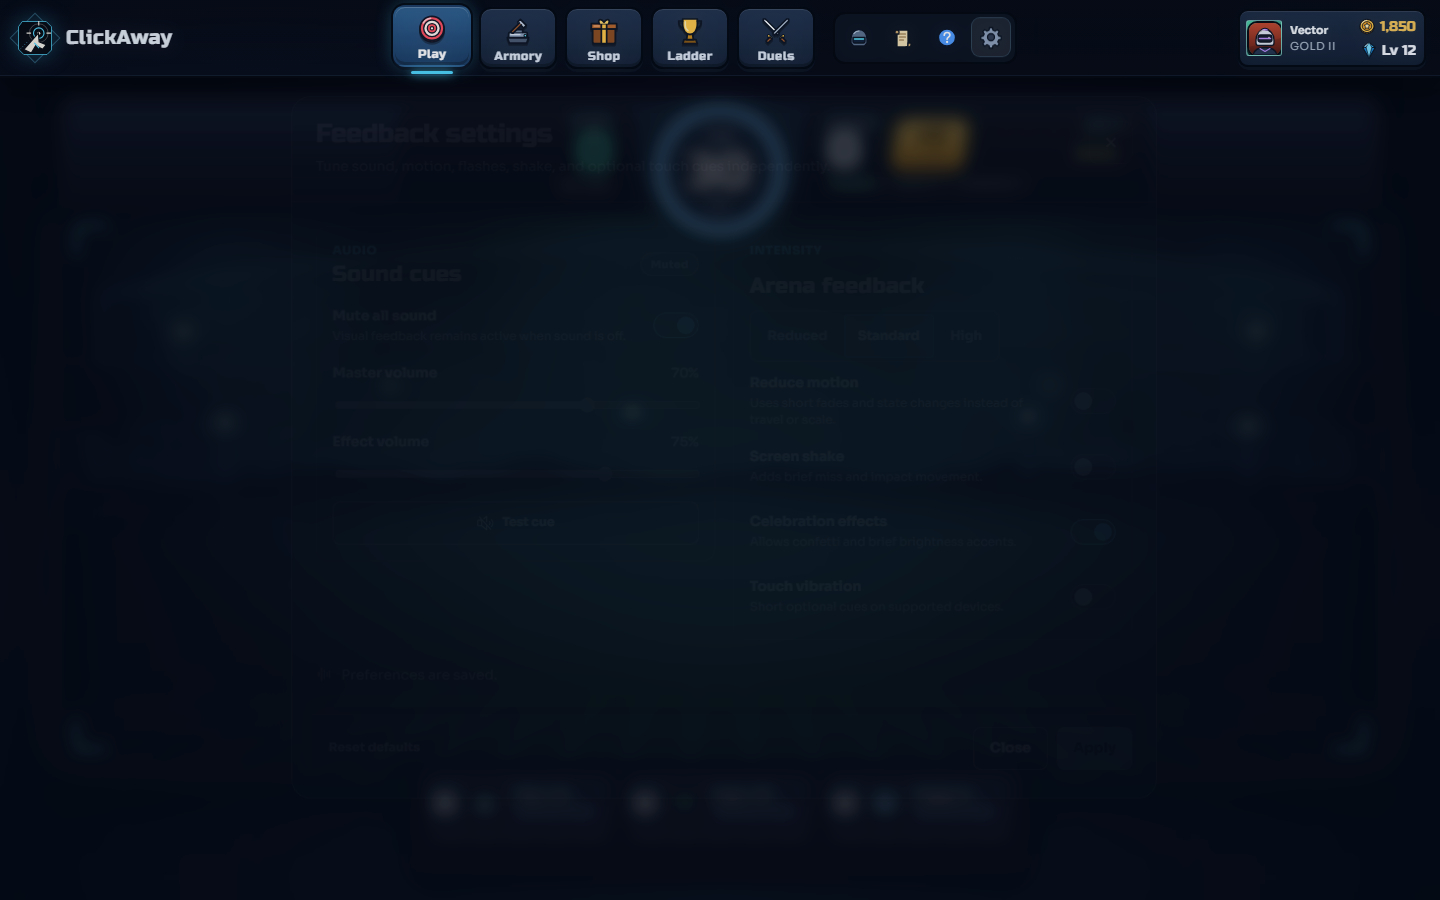
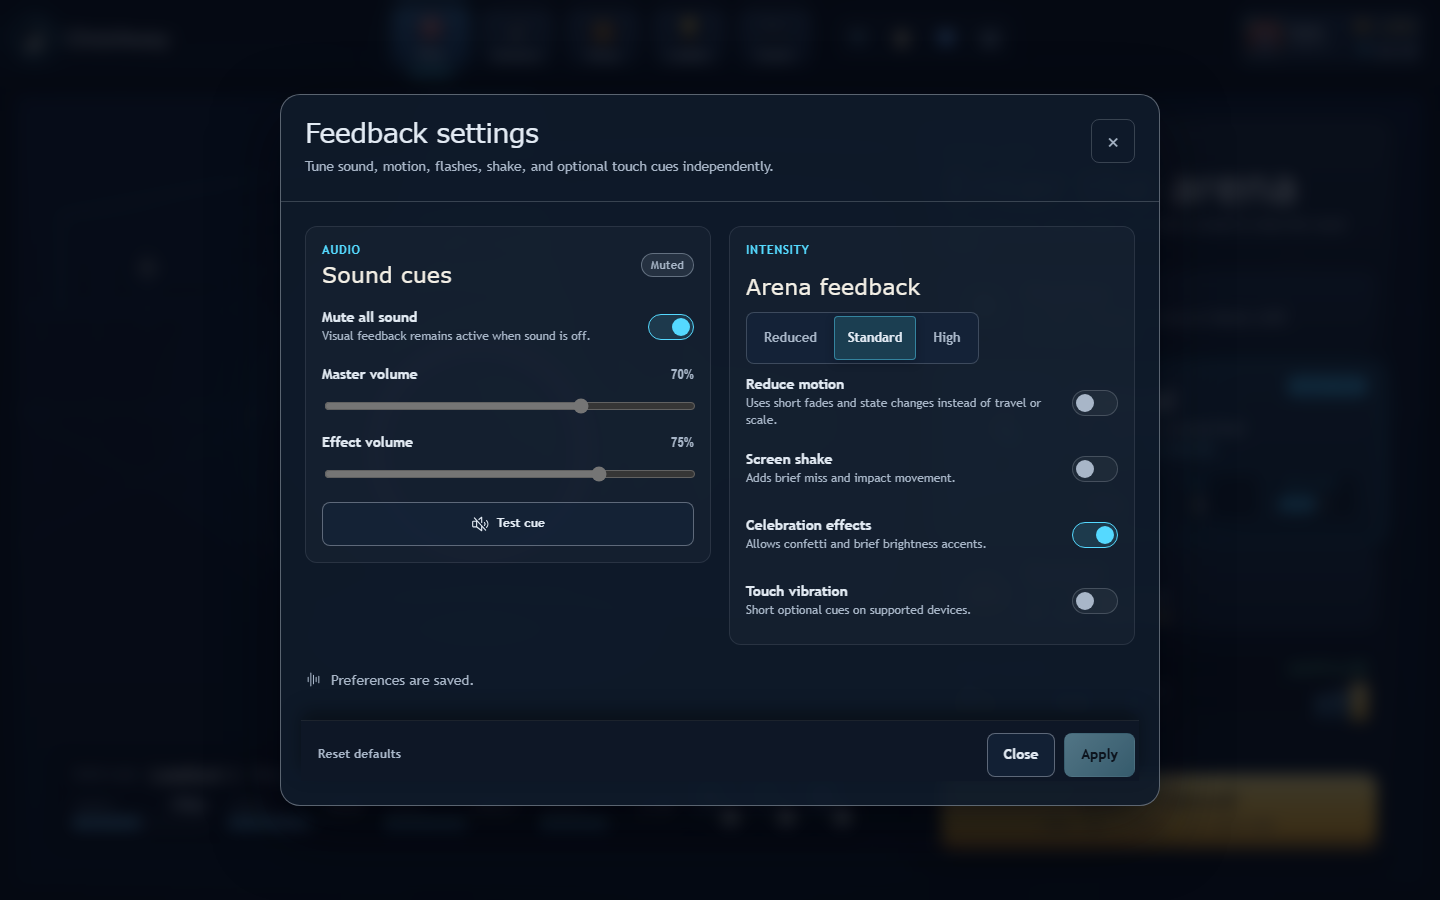
ClickawayRSI: re-shoot blurred i0 settings sheet, add rank-up capture

diff --git a/tests/e2e/zz-app.spec.js b/tests/e2e/zz-app.spec.js
@@ -10,7 +10,7 @@ async function newPage(browser, opts = {}) {
   const context = await browser.newContext({ viewport: { width: 1440, height: 900 }, colorScheme: "dark", baseURL: "http://127.0.0.1:4173" })
   const page = await context.newPage()
   await page.clock.install({ time: new Date("2026-07-12T16:00:00.000Z") })
-  if (!opts.anon) await installApiMocks(page, {})
+  if (!opts.anon) await installApiMocks(page, { progressOverrides: opts.progress ?? {} })
   await page.addInitScript((prefs) => localStorage.setItem("clickaway.feedback-preferences.v1", JSON.stringify(prefs)), PREFS)
   return page
 }
@@ -58,6 +58,22 @@ test("app capture", async ({ browser }) => {
     await shot(page, "live-round", { fullPage: false })
     await page.keyboard.press("g"); await page.waitForTimeout(2600)
     await shot(page, "results", { fullPage: false })
+    await page.context().close()
+  })
+  // Rank-up: start 2 RR under the next division so a ranked round promotes.
+  await step("rankup", async () => {
+    const page = await newPage(browser, { progress: { rankMmr: 798 } })
+    await gotoRoute(page, AUTHENTICATED_ROUTES[0])
+    await page.waitForTimeout(900)
+    await page.getByRole("button", { name: "Select Ranked" }).click()
+    await page.getByRole("button", { name: /Start Ranked/i }).click()
+    await page.waitForTimeout(3900)
+    for (let i = 0; i < 14; i++) { await page.locator(".arena .bigCircleButton").first().click({ force: true, timeout: 1000 }).catch(() => {}); await page.waitForTimeout(110) }
+    await page.keyboard.press("g"); await page.waitForTimeout(2600)
+    await page.getByRole("button", { name: /Reveal Rank/i }).click({ timeout: 4000 })
+    await page.waitForTimeout(2400)
+    n = 12
+    await shot(page, "rankup", { fullPage: false })
     await page.context().close()
   })
 })

diff --git a/.claude/skills/clickaway-rsi/update_pr_body.py b/.claude/skills/clickaway-rsi/update_pr_body.py
@@ -31,7 +31,9 @@ score_rows = "\n".join(
     for r, vals in scores.items()
 )
 shot_rows = "\n".join(
-    f"| **{s.split('-', 1)[1][:-4]}** | ![]({blob}/i0/{s}?raw=true) | ![]({blob}/{latest}/{s}?raw=true) |"
+    f"| **{s.split('-', 1)[1][:-4]}** | "
+    + (f"![]({blob}/i0/{s}?raw=true)" if os.path.exists(os.path.join(SHOTS_DIR, "i0", s)) else "_not captured in i0_")
+    + f" | ![]({blob}/{latest}/{s}?raw=true) |"
     for s in shots
 )
 

diff --git a/.claude/skills/clickaway-rsi/SKILL.md b/.claude/skills/clickaway-rsi/SKILL.md
@@ -27,7 +27,7 @@ Before starting, restate the task to the user in 3–4 lines: who's on the counc
 - **Stop:** every judge ≥ 9.0 and Sol ≥ 9.4 (Sol runs ~0.4 above harsher judges), or 6 rounds. Run 2's first council read is the baseline for the new judges: re-check after it whether Gemini or Qwen needs its own offset. Count rounds per run.
 
 ## Files
-- Capture spec: `tests/e2e/zz-app.spec.js` (12 shots: login, every route captured at full content height, settings sheet, live round, results). `.mainContent` is the scroll container, so the spec grows the viewport to fit the content.
+- Capture spec: `tests/e2e/zz-app.spec.js` (13 shots: login, every route captured at full content height, settings sheet, live round, results, rank-up). `.mainContent` is the scroll container, so the spec grows the viewport to fit the content.
 - Judge brief: `docs/ui-polish/game-feel/brief.md` (scale, ≤350-word reply format).
 - Reference bar: `docs/ui-polish/standards/standard-1..4.jpg`
 - Shots: `docs/ui-polish/game-feel/iN/`, change notes `docs/ui-polish/game-feel/iN-changes.md`
@@ -95,6 +95,10 @@ Build JSON bodies with Python (`json.dump`) and never echo the token. Link the P
 
 - Scores climb ~+0.2 per round once past 7.5, no matter how big the round is. Breadth beats depth after that point: judges average over all 12 screens, so one screen getting great moves the score less than the weakest 3 screens getting decent.
 - Trimming sizes to fix a "too tall" regression can cost presence (Duels r6). Cut padding before cutting the hero elements.
+- **Never `git worktree remove --force` a worktree that holds a `node_modules` junction.** Git followed the junction and deleted files in the main repo's `node_modules`, including `.bin`. Delete the junction first with PowerShell `[System.IO.Directory]::Delete(path, $false)`, then remove the worktree. To repair, stop stray `vite`/`esbuild` processes, then run `npm ci`.
+- To capture old code (for example re-shooting an i0 screen), use a detached worktree at `392a05a^` and **change its Playwright port** (4173 → 4174). `reuseExistingServer` otherwise silently serves the main repo's dev server, which means current code.
+- The settings-sheet shot needs the dialog to be visible plus ~2.5s, or it captures mid-fade (the i0 shot was blurred and was re-shot after run 1).
+- Capture has 13 shots: `13-rankup` (added in run 2) starts a ranked round at `rankMmr: 798` (2 RR under Gold III) and clicks "Reveal Rank". i0 has no rank-up shot; the PR table shows "not captured".
 - Check catalog scale before redrawing an asset: the "lost translucency" bubble was `shopImageScale: 250` cropping its rim, not the art.
 - In the arena, `.arenaFloor` is a perspective plane: at rotateX(62deg) it collapses into a strip at the bottom. Use ~35deg with `top: 20%` so painted floor art is visible.
 - `font: 800 11px var(--x, inherit)` is invalid (inherit can't sit inside a shorthand), so the whole declaration is dropped. Use separate font-weight/font-size.
